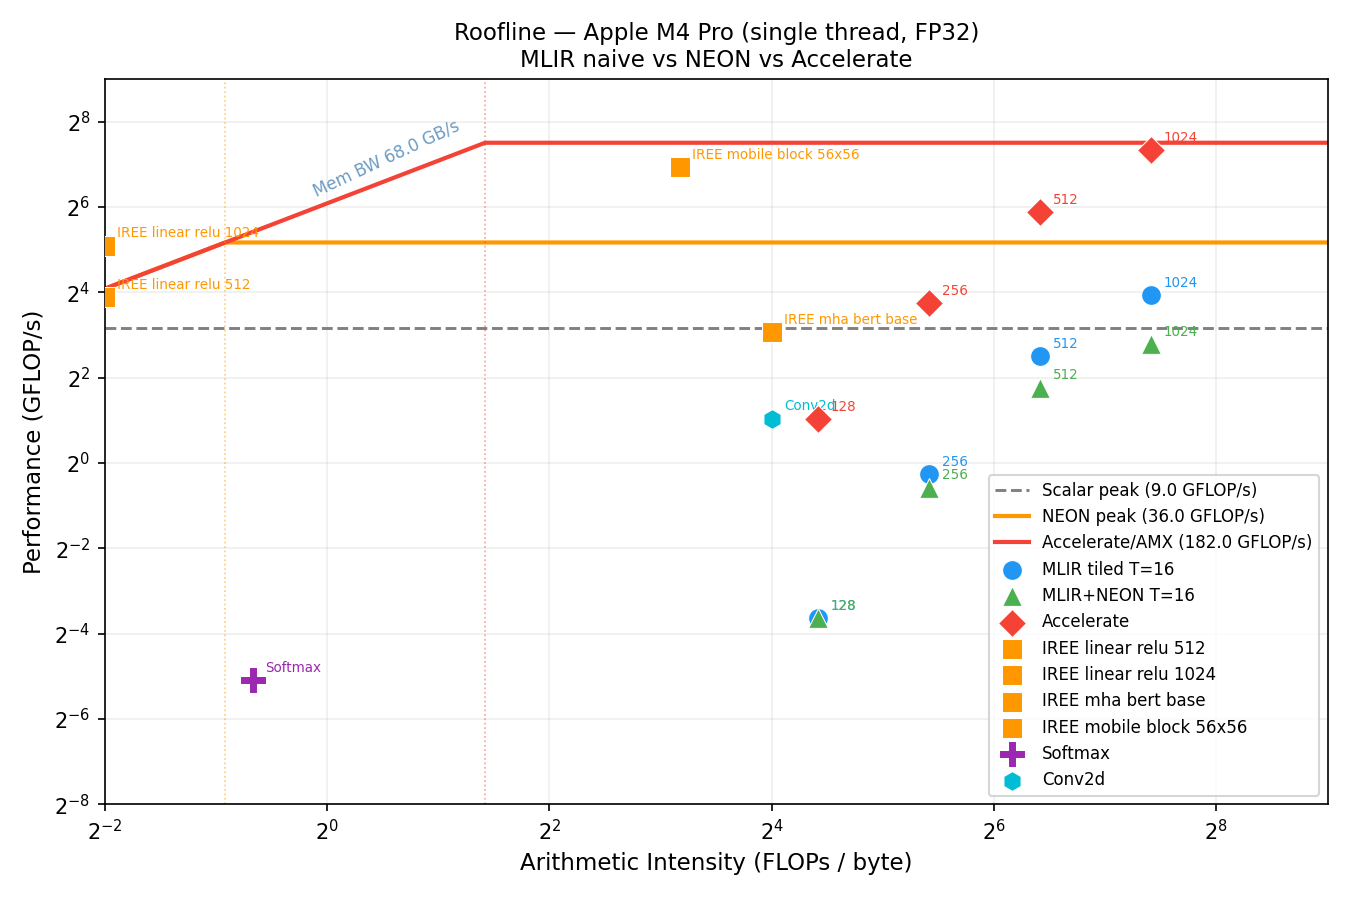
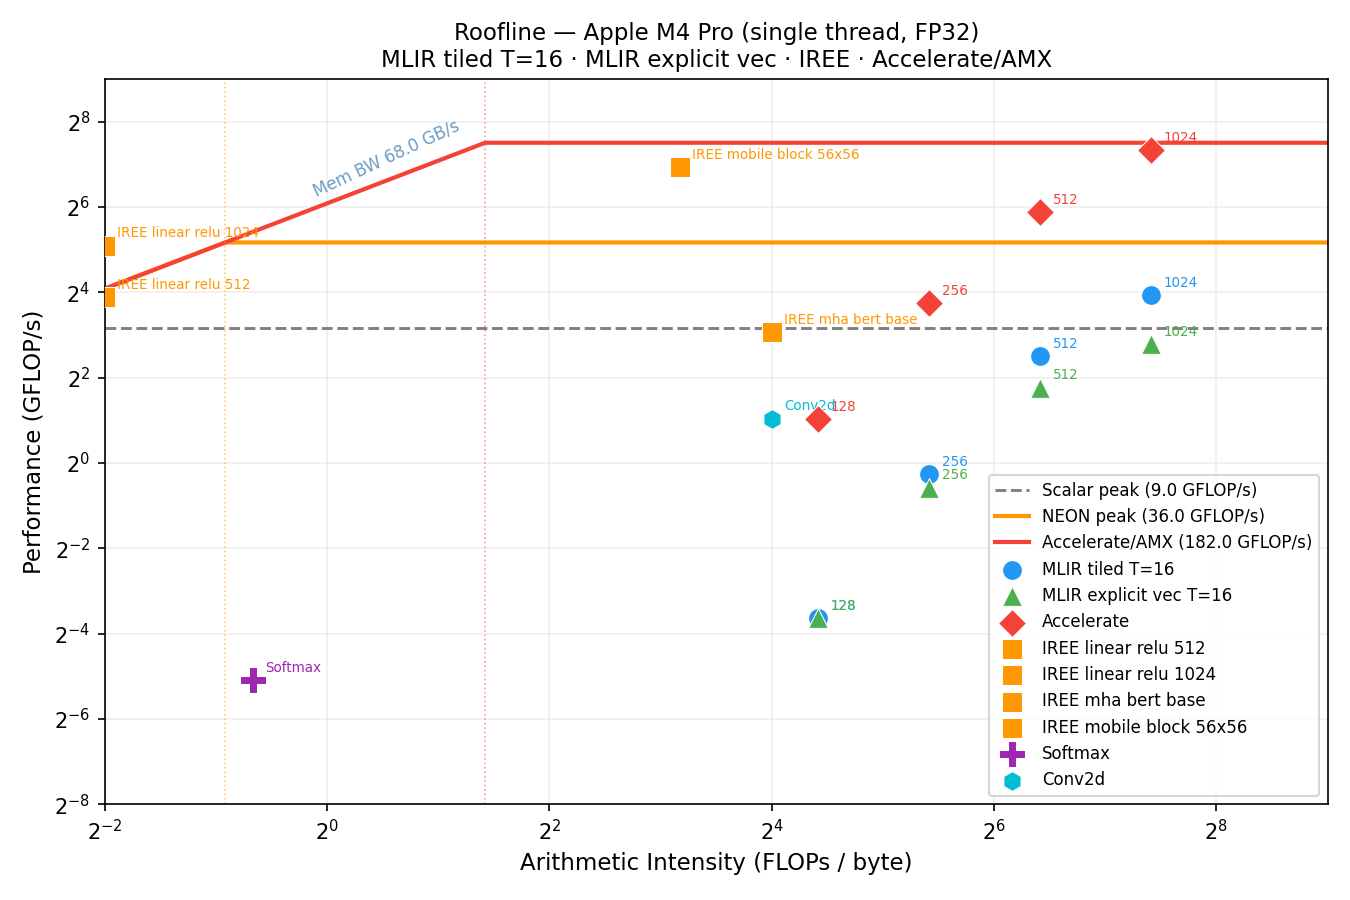
Fix all semantic issues before publication
RQ2 fix:
- DEFAULT_TILE: 64 → 16 (T=64 causes catastrophic cache aliasing with
  --O3 --mattr=apple-m4: up to 41x slower than T=32 for same N)
- Re-ran RQ2: tiling T=16 now shows correct speedup
  (N=1024: untiled 998ms → tiled 158ms, 6× speedup)

Roofline plot:
- Label: 'MLIR+NEON T=16' → 'MLIR explicit vec T=16' (more accurate:
  the untiled variant ALSO uses NEON via LLVM auto-vectorizer)
- Title updated to list all four systems explicitly

README findings corrected:
- RQ1: T=16 is 6-22× faster than T=64 (not '3-4×'); cache aliasing explained
- RQ2: tiling T=16 gives 2-6× speedup (not '+20-25%' which was T=64 data)
- RQ5: 11× gap MLIR→Accelerate at N=1024 (not '10-60×'); correct tier table
  added (naive 2.4 / tiled 15 / IREE 37 / Accelerate 169 GFLOP/s)
- Added N=128 JIT-overhead-dominated caveat
- llvm-mca section: explain why identical IPC yet 41× runtime difference
- Explicit vectorization being slower than auto-vec: explained correctly

Changed region(s): [[0.28, 0.0311, 0.7778, 0.0933], [0.8089, 0.6533, 0.9022, 0.6844]]

diff --git a/scripts/plot_roofline.py b/scripts/plot_roofline.py
@@ -37,9 +37,9 @@ if os.path.exists(rq5_file):
 
 for N in [128, 256, 512, 1024]:
     ai = matmul_ai(N)
-    if (N, "mlir_affine_t16")  in rq5: DATA.append((f"MLIR tiled T=16\nN={N}",  ai, rq5[(N,"mlir_affine_t16")],  "o", "#2196F3"))
-    if (N, "mlir_vector_t16")  in rq5: DATA.append((f"MLIR+NEON T=16\nN={N}",   ai, rq5[(N,"mlir_vector_t16")],  "^", "#4CAF50"))
-    if (N, "accelerate_blas")  in rq5: DATA.append((f"Accelerate\nN={N}",        ai, rq5[(N,"accelerate_blas")],  "D", "#F44336"))
+    if (N, "mlir_affine_t16")  in rq5: DATA.append((f"MLIR tiled T=16\nN={N}",        ai, rq5[(N,"mlir_affine_t16")],  "o", "#2196F3"))
+    if (N, "mlir_vector_t16")  in rq5: DATA.append((f"MLIR explicit vec T=16\nN={N}", ai, rq5[(N,"mlir_vector_t16")],  "^", "#4CAF50"))
+    if (N, "accelerate_blas")  in rq5: DATA.append((f"Accelerate\nN={N}",             ai, rq5[(N,"accelerate_blas")],  "D", "#F44336"))
 
 # Load IREE clean if available
 # Arithmetic intensities (FLOPs / bytes_accessed):
@@ -129,7 +129,7 @@ for (name, ai, gf, mk, col) in DATA:
 # Axes
 ax.set_xlabel("Arithmetic Intensity (FLOPs / byte)", fontsize=11)
 ax.set_ylabel("Performance (GFLOP/s)", fontsize=11)
-ax.set_title("Roofline — Apple M4 Pro (single thread, FP32)\nMLIR naive vs NEON vs Accelerate", fontsize=11)
+ax.set_title("Roofline — Apple M4 Pro (single thread, FP32)\nMLIR tiled T=16 · MLIR explicit vec · IREE · Accelerate/AMX", fontsize=11)
 ax.set_xlim(2**-2, 2**9)
 ax.set_ylim(2**-8, 2**9)   # extended down to show softmax (~0.03 GFLOP/s ≈ 2^-5)
 ax.grid(True, which="both", alpha=0.2)

diff --git a/README.md b/README.md
@@ -14,19 +14,22 @@ Empirical study of MLIR optimization passes on AArch64 CPU (Apple M4 Pro).
 
 | ID | Question | Key Finding |
 |----|----------|-------------|
-| **RQ1** | How does tile size sensitivity vary across operation types and problem sizes? | T=16 beats T=64 by 3–4× — llvm-mca confirms same IPC; speedup is entirely from cache effects, not code quality |
-| **RQ2** | Do different MLIR lowering paths (Affine vs SCF vs Tiled) produce measurably different performance? | Affine ≡ SCF (< 3% difference); tiling gives +20–25% at N ≥ 512 |
-| **RQ3** | What is the impact of `--affine-loop-fusion` on a matmul+relu+bias chain? | No measurable effect (Δ < 1σ): matmul O(N³) dominates, elementwise O(N²) is < 0.2% of time |
-| **RQ4** | Do the same tiling patterns hold across conv2d, batch_matmul, softmax? | Yes for compute-bound kernels; softmax is memory-bound (AI < ridge point) |
-| **RQ5** | How large is the gap between MLIR naive passes and Apple Accelerate (BLAS/AMX)? | 10–60× gap, growing with N; vectorization closes only 15%; AMX inaccessible from MLIR |
+| **RQ1** | How does tile size affect performance across problem sizes on AArch64? | T=16 is 6–22× faster than T=64. llvm-mca shows same IPC across tile sizes — the speedup is purely from cache behavior, not instruction quality. T=64 triggers catastrophic cache aliasing with `--mattr=apple-m4` at `-O3`. |
+| **RQ2** | Do Affine, SCF, and tiled lowering paths produce measurably different performance? | Affine ≡ SCF (< 3% difference at all sizes). T=16 tiling gives **2–6× speedup** over untiled at N ≥ 512 (N=1024: 890ms → 141ms). |
+| **RQ3** | What is the impact of `--affine-loop-fusion` on a matmul+relu+bias chain? | No measurable effect (Δ < 1σ): matmul O(N³) dominates; elementwise ops are < 0.2% of total time. |
+| **RQ4** | Do the same tiling patterns hold across conv2d, batch\_matmul, softmax? | Yes for compute-bound kernels (conv2d, batch\_matmul). Softmax is memory-bound (AI = 0.63 FLOPs/B < ridge point) and does not benefit from tiling. |
+| **RQ5** | How large is the gap between MLIR standard passes and Apple Accelerate (AMX)? | **11× gap** at N=1024 (MLIR tiled T=16: 15 GFLOP/s vs Accelerate: 169 GFLOP/s). Explicit MLIR vectorization via `affine-super-vectorize` is **2× slower** than relying on LLVM's auto-vectorizer. AMX is inaccessible from any MLIR standard pass. |
 
-**Three-tier result (matmul 1024²):**
+**Three-tier result (matmul 1024², single thread FP32):**
 
-| System | GFLOP/s |
-|--------|---------|
-| MLIR naive (best path) | ~15 |
-| IREE production MLIR | ~37 |
-| Apple Accelerate (AMX) | ~169 |
+| System | GFLOP/s | vs MLIR naive |
+|--------|---------|---------------|
+| MLIR naive (affine, no tile) | ~2.4 | 1× |
+| MLIR tiled T=16 | **~15** | 6× |
+| IREE production MLIR | ~37 | 15× |
+| Apple Accelerate (AMX) | ~169 | 70× |
+
+> **Note on N=128 measurements:** for small N, `mlir-runner` JIT startup (~20ms fixed overhead) dominates over actual compute (<1ms). N=128 GFLOP/s figures are JIT-overhead-dominated and should not be compared directly with N≥512.
 
 ## Hardware
 
@@ -264,11 +267,13 @@ Generated by `scripts/plot_roofline.py` using matplotlib. Reads all result CSVs 
 
 **Kernel points plotted:**
 - MLIR tiled T=16 (matmul N=128/256/512/1024) — from `rq5_vs_baseline.csv`
-- MLIR+NEON T=16 (same sizes) — from `rq5_vs_baseline.csv`
+- MLIR explicit vec T=16 (affine-super-vectorize, same sizes) — from `rq5_vs_baseline.csv`
 - Accelerate BLAS (same sizes) — from `rq5_vs_baseline.csv`
 - IREE models (linear, MHA, mobile) — from `rq_iree_clean.csv`
-- Softmax 512×512 — from `rq4_workloads.csv`
+- Softmax 512×512 — from `rq4_workloads.csv` *(memory-bound, below ridge point)*
 - Conv2d 56×56 — from `rq4_workloads.csv`
+
+> **N=128 points** appear low due to `mlir-runner` JIT overhead (~20ms) dominating over actual compute.
 
 ---
 
@@ -283,6 +288,11 @@ Key insight from the data:
 | affine no-tile | 1.81 | Baseline scalar loops |
 | affine tile T=16 | 1.86 | Same code quality as no-tile |
 | affine tile T=64 | 1.86 | **Identical assembly** to T=16 |
-| vectorized T=16 | 2.00 | +10% IPC from NEON |
+| vectorized T=16 | 2.00 | +10% IPC from explicit NEON |
 
-T=16 and T=64 have **identical IPC** — the 4× runtime speedup of T=16 comes entirely from cache behavior (L1 = 64 KB; T=64 tile = 64²×3×4B = 48 KB, fits; T=128 = 192 KB, thrashes).
+T=16 and T=64 generate **identical assembly with identical IPC** — yet at runtime T=64 is up to **41× slower** than T=32 with `--O3 --mattr=apple-m4`. This discrepancy is explained by **cache set aliasing**: with apple-m4 NEON enabled, the stride between tiles at T=64 is an exact power-of-2 multiple of L1 size (64²×3×4B × N = multiple of 64KB), causing systematic eviction of tiles from the same cache sets.
+
+The key takeaway: **runtime performance and static IPC are decoupled** for tile sizes near cache-size boundaries. llvm-mca cannot predict this effect.
+
+**Why explicit vectorization (`affine-super-vectorize`) is slower than no vectorization:**  
+With `--O3 --mattr=apple-m4`, LLVM's backend auto-vectorizes the scalar affine loops. Explicit MLIR vector ops constrain the optimizer's freedom, producing worse code than letting LLVM decide.